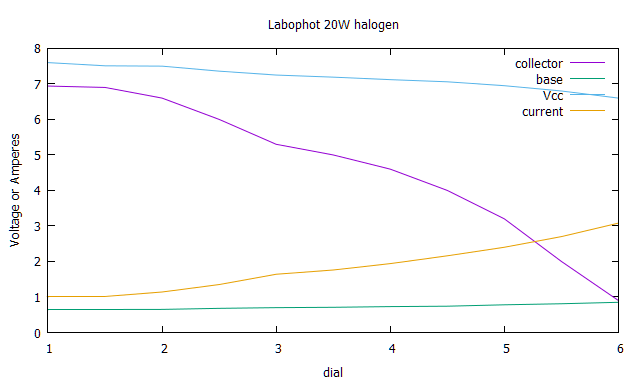
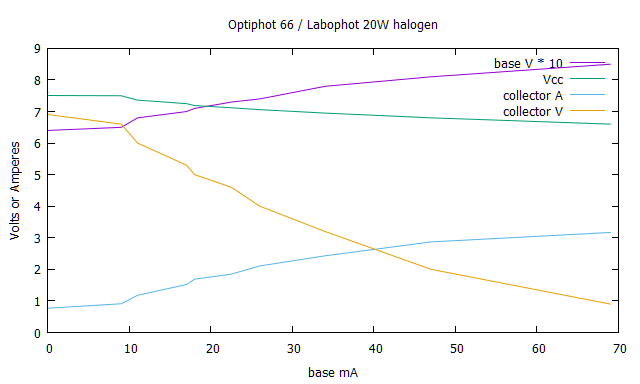
add base current and lamp voltage, update collector current and analyses

diff --git a/microscope/Nikon/Labophot/index.htm b/microscope/Nikon/Labophot/index.htm
@@ -52,40 +52,43 @@ to accommodate incandescent lamp behavior:<ul compact>
 <li> As filament heats, resistance increases.
 <li> This lowers voltage drop from collector to emitter<br>
   and also current thru resistor to base, reducing power to lamps.
+<li>20W halogen lamps start dimly illuminating with nearly 1A current,<br>
+which may be LED maximum.<br>
 <img src="plot.png"><br clear=all>
 Current was measured using a CA-60 AC/DC clamp.<br>
 </ul>
 <br>
 LEDs behave differently:<ul compact>
-<li> Selected LED should be bright enough with 1A<br> that 1K is minimum resistance wanted from supply to base;<br>
-  need to determine a minimum current for useful brightness<br>
-  to establish wanted potentiometer range.
-<li> Above some voltage threshold, current increases with temperature.
-<li> this effectively decreased resistance<br>
-  increases transistor collector-emitter voltage and current<br>
-  thru collector-base resistance, provoking current runaway.
-<li> Supply Voltage Vcc droops slightly with increased current,<br>
-  providing slight stabilizing negative feedback.
-<li> For the transistor to behave as a more nearly constant current source,<br>
+<li> For the (2N3716) transistor to behave as a more nearly constant current source,<br>
   replace variable resistor with potentiometer between Vcc and ground<br>
   with wiper to base, increasing negative feedback,<br>
   as base-to-emitter voltage increases with current.
-<li> Potentiometer in series with forward-biased diode to ground<br>
-  (nearly constant voltage drop)<br>
-  could strengthen current regulation.<br>
-
+<li> Selected LED should be bright enough with 1A<br> that 1V is maximum base Voltage;<br>
+  4.7K above 1K potentiometer should work;
+  need to determine minimum base drive for useful brightness.<br>
+  to establish resistance between 1K potentiometer and ground.
+<li>LED will drop nearly constant (6)V; transistor will dissapte < 1W.   
+<li> Above some voltage threshold, current increases with temperature.
+<li> this effectively decreases resistance<br>
+  increasing transistor collector-emitter voltage and current<br>
+  thru collector-base resistance, provoking current runaway.
+<li> Supply Voltage Vcc droops slightly with increased current,<br>
+  providing slight stabilizing negative feedback.
+<br>
 <pre>
-# Labophot halogen measurements 12 July 2022
-# dial  Vcc     yellow  brown   current
-1       7.6     6.94    .64     1
-1.5     7.51    6.9     .64     1
-2       7.5     6.6     .65     1.14    # very dim
-2.5     7.36    6       .68     1.35
-3       7.25    5.3     .70     1.64
-3.5     7.19    5       .71     1.76
-4       7.12    4.6     .73     1.94
-4.5     7.06    4       .74     2.16
-5       6.95    3.2     .78     2.4
-5.5     6.8     2       .81     2.7
-6       6.6     0.9     .85     3.08
+# Labophot, Optiphot 66 halogen measurements 12 July, 9 Sept 2022
+#             collector base   lamp     base    lamp
+# dial  Vcc     yellow  brown   mA      mA      V
+OFF                             10      0       0
+1       7.6     6.94    .64     770     0       .2
+1.5     7.51    6.9     .64     770     0       .2
+2       7.5     6.6     .65     910     9       .3      # very dim
+2.5     7.36    6       .68     1180    11      .6
+3       7.25    5.3     .70     1520    17      1.2
+3.5     7.19    5       .71     1690    18      1.5
+4       7.12    4.6     .73     1850    22.5    1.85
+4.5     7.06    4       .74     2110    26      2.4
+5       6.95    3.2     .78     2430    34      3.3
+5.5     6.8     2       .81     2870    47      4.5
+6       6.6     0.9     .85     3170    69      5.5   
 </pre>
